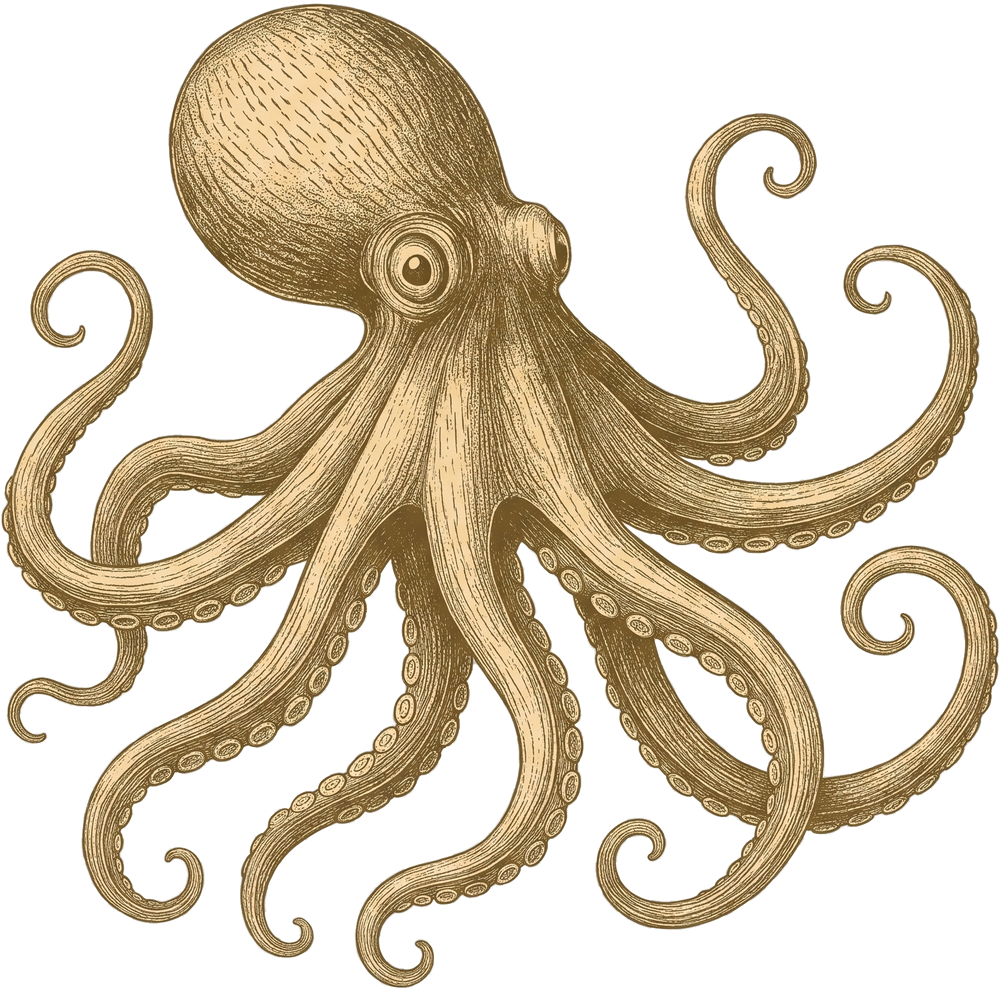
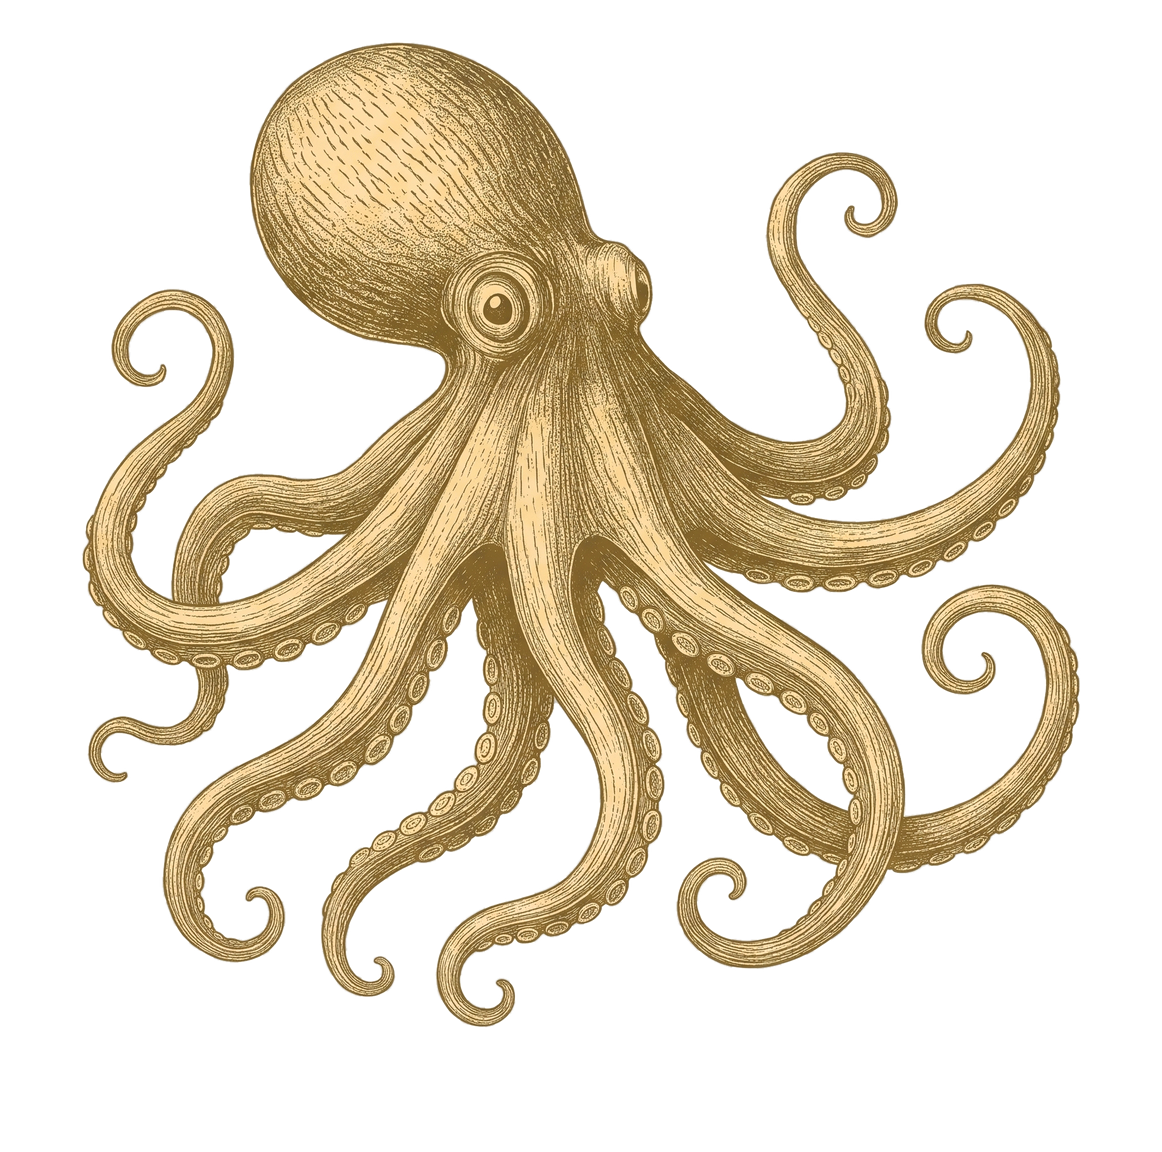
Life: smaller octopus, octopus & flower toned to match the cat
Claude-Session: https://claude.ai/code/session_016R5T8HULVGKfAE3PW3pdJb

diff --git a/site/life/index.html b/site/life/index.html
@@ -8,7 +8,7 @@
     <link rel="icon" href="/img/favicon.ico" sizes="32x32">
     <link rel="apple-touch-icon" href="/img/apple-touch-icon.png"> 
     <link href="https://fonts.googleapis.com/css2?family=Lato:wght@800&family=Lora:wght@400;500;600&family=Source+Sans+Pro:wght@400;600;700&display=swap" rel="stylesheet">
-    <link rel="stylesheet" href="/css/styles.css?v=71">
+    <link rel="stylesheet" href="/css/styles.css?v=72">
 </head>
 <body>
  <div class="container">
@@ -84,7 +84,7 @@
         <div class="journal-entry">
             <a href="#">
                 <div class="life-image-container">
-                    <img src="../img/life/animal-v2.png" alt="">
+                    <img src="../img/life/animal-v2.png?v=3" alt="">
                     <span class="tag-overlay">ANIMALS</span>
                 </div>
             </a>
@@ -92,7 +92,7 @@
         <div class="journal-entry">
             <a href="/life/nature/">
                 <div class="life-image-container">
-                    <img src="../img/life/nature-v2.png" alt="">
+                    <img src="../img/life/nature-v2.png?v=3" alt="">
                     <span class="tag-overlay">NATURE</span>
                 </div>
             </a>

diff --git a/site/css/styles.css b/site/css/styles.css
@@ -1815,4 +1815,3 @@ main .section-header { max-width: 1160px; }
 @media (max-width: 600px) { .tools-list li { font-size: 19px; white-space: nowrap; } .tools-list li:not(:last-child)::after { margin: 0 10px; } }
 @media (max-width: 968px) { .clients-section .clients-intro { margin-bottom: 5px; } }
 @media (max-width: 968px) { .bio-intro .life-linus-image { width: 70%; max-width: 320px; height: auto; margin: 10px auto 0; display: block; } }
-@media (max-width: 600px) { #journal .journal-entry:has(img[src*="animal-v2.png"]) { margin-bottom: 14px; } }

diff --git a/site/index.html b/site/index.html
@@ -8,7 +8,7 @@
     <link rel="icon" href="/img/favicon.ico" sizes="32x32">
     <link rel="apple-touch-icon" href="/img/apple-touch-icon.png"> 
     <link href="https://fonts.googleapis.com/css2?family=Lato:wght@800&family=Lora:wght@400;500;600&family=Source+Sans+Pro:wght@400;600;700&display=swap" rel="stylesheet">
-    <link rel="stylesheet" href="/css/styles.css?v=71">
+    <link rel="stylesheet" href="/css/styles.css?v=72">
 </head>
 <body>
  <div class="container">

diff --git a/site/journal/art/index.html b/site/journal/art/index.html
@@ -8,7 +8,7 @@
     <link rel="icon" href="/img/favicon.ico" sizes="32x32">
     <link rel="apple-touch-icon" href="/img/apple-touch-icon.png"> 
     <link href="https://fonts.googleapis.com/css2?family=Lato:wght@800&family=Lora:wght@400;500;600&family=Source+Sans+Pro:wght@400;600;700&display=swap" rel="stylesheet">
-    <link rel="stylesheet" href="/css/styles.css?v=71">
+    <link rel="stylesheet" href="/css/styles.css?v=72">
 </head>
 <body>
  <div class="container">

diff --git a/site/journal/ciencia-en-societat/index.html b/site/journal/ciencia-en-societat/index.html
@@ -8,7 +8,7 @@
     <link rel="icon" href="/img/favicon.ico" sizes="32x32">
     <link rel="apple-touch-icon" href="/img/apple-touch-icon.png"> 
     <link href="https://fonts.googleapis.com/css2?family=Lato:wght@800&family=Lora:wght@400;500;600&family=Source+Sans+Pro:wght@400;600;700&display=swap" rel="stylesheet">
-    <link rel="stylesheet" href="/css/styles.css?v=71">
+    <link rel="stylesheet" href="/css/styles.css?v=72">
 </head>
 <body>
  <div class="container">

diff --git a/site/journal/cities-digital-rights-sokotech/index.html b/site/journal/cities-digital-rights-sokotech/index.html
@@ -8,7 +8,7 @@
     <link rel="icon" href="/img/favicon.ico" sizes="32x32">
     <link rel="apple-touch-icon" href="/img/apple-touch-icon.png"> 
     <link href="https://fonts.googleapis.com/css2?family=Lato:wght@800&family=Lora:wght@400;500;600&family=Source+Sans+Pro:wght@400;600;700&display=swap" rel="stylesheet">
-    <link rel="stylesheet" href="/css/styles.css?v=71">
+    <link rel="stylesheet" href="/css/styles.css?v=72">
 </head>
 <body>
  <div class="container">

diff --git a/site/journal/fab-academy/index.html b/site/journal/fab-academy/index.html
@@ -8,7 +8,7 @@
     <link rel="icon" href="/img/favicon.ico" sizes="32x32">
     <link rel="apple-touch-icon" href="/img/apple-touch-icon.png"> 
     <link href="https://fonts.googleapis.com/css2?family=Lato:wght@800&family=Lora:wght@400;500;600&family=Source+Sans+Pro:wght@400;600;700&display=swap" rel="stylesheet">
-    <link rel="stylesheet" href="/css/styles.css?v=71">
+    <link rel="stylesheet" href="/css/styles.css?v=72">
 </head>
 <body>
  <div class="container">

diff --git a/site/journal/free-culture-project/index.html b/site/journal/free-culture-project/index.html
@@ -8,7 +8,7 @@
     <link rel="icon" href="/img/favicon.ico" sizes="32x32">
     <link rel="apple-touch-icon" href="/img/apple-touch-icon.png"> 
     <link href="https://fonts.googleapis.com/css2?family=Lato:wght@800&family=Lora:wght@400;500;600&family=Source+Sans+Pro:wght@400;600;700&display=swap" rel="stylesheet">
-    <link rel="stylesheet" href="/css/styles.css?v=71">
+    <link rel="stylesheet" href="/css/styles.css?v=72">
 </head>
 <body>
  <div class="container">

diff --git a/site/journal/index.html b/site/journal/index.html
@@ -8,7 +8,7 @@
     <link rel="icon" href="/img/favicon.ico" sizes="32x32">
     <link rel="apple-touch-icon" href="/img/apple-touch-icon.png"> 
     <link href="https://fonts.googleapis.com/css2?family=Lato:wght@800&family=Lora:wght@400;500;600&family=Source+Sans+Pro:wght@400;600;700&display=swap" rel="stylesheet">
-    <link rel="stylesheet" href="/css/styles.css?v=71">
+    <link rel="stylesheet" href="/css/styles.css?v=72">
 </head>
 <body>
  <div class="container">

diff --git a/site/journal/mesh-sokotech/index.html b/site/journal/mesh-sokotech/index.html
@@ -8,7 +8,7 @@
     <link rel="icon" href="/img/favicon.ico" sizes="32x32">
     <link rel="apple-touch-icon" href="/img/apple-touch-icon.png"> 
     <link href="https://fonts.googleapis.com/css2?family=Lato:wght@800&family=Lora:wght@400;500;600&family=Source+Sans+Pro:wght@400;600;700&display=swap" rel="stylesheet">
-    <link rel="stylesheet" href="/css/styles.css?v=71">
+    <link rel="stylesheet" href="/css/styles.css?v=72">
 </head>
 <body>
  <div class="container">

diff --git a/site/journal/smashing-decade/index.html b/site/journal/smashing-decade/index.html
@@ -8,7 +8,7 @@
     <link rel="icon" href="/img/favicon.ico" sizes="32x32">
     <link rel="apple-touch-icon" href="/img/apple-touch-icon.png"> 
     <link href="https://fonts.googleapis.com/css2?family=Lato:wght@800&family=Lora:wght@400;500;600&family=Source+Sans+Pro:wght@400;600;700&display=swap" rel="stylesheet">
-    <link rel="stylesheet" href="/css/styles.css?v=71">
+    <link rel="stylesheet" href="/css/styles.css?v=72">
 </head>
 <body>
  <div class="container">

diff --git a/site/journal/south-of-64/index.html b/site/journal/south-of-64/index.html
@@ -8,7 +8,7 @@
     <link rel="icon" href="/img/favicon.ico" sizes="32x32">
     <link rel="apple-touch-icon" href="/img/apple-touch-icon.png"> 
     <link href="https://fonts.googleapis.com/css2?family=Lato:wght@800&family=Lora:wght@400;500;600&family=Source+Sans+Pro:wght@400;600;700&display=swap" rel="stylesheet">
-    <link rel="stylesheet" href="/css/styles.css?v=71">
+    <link rel="stylesheet" href="/css/styles.css?v=72">
 </head>
 <body>
  <div class="container">
